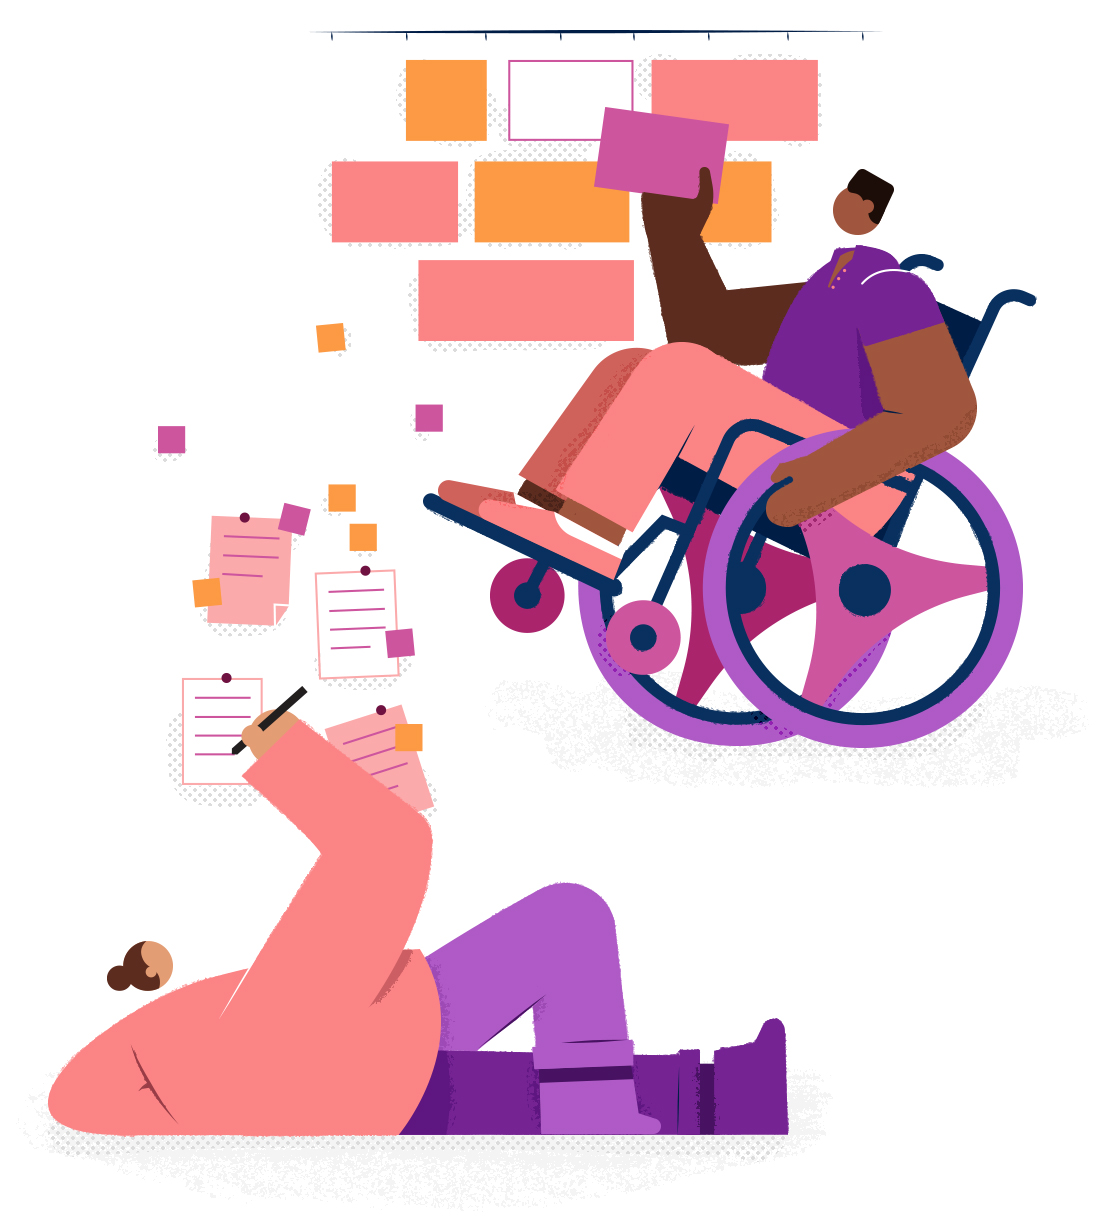
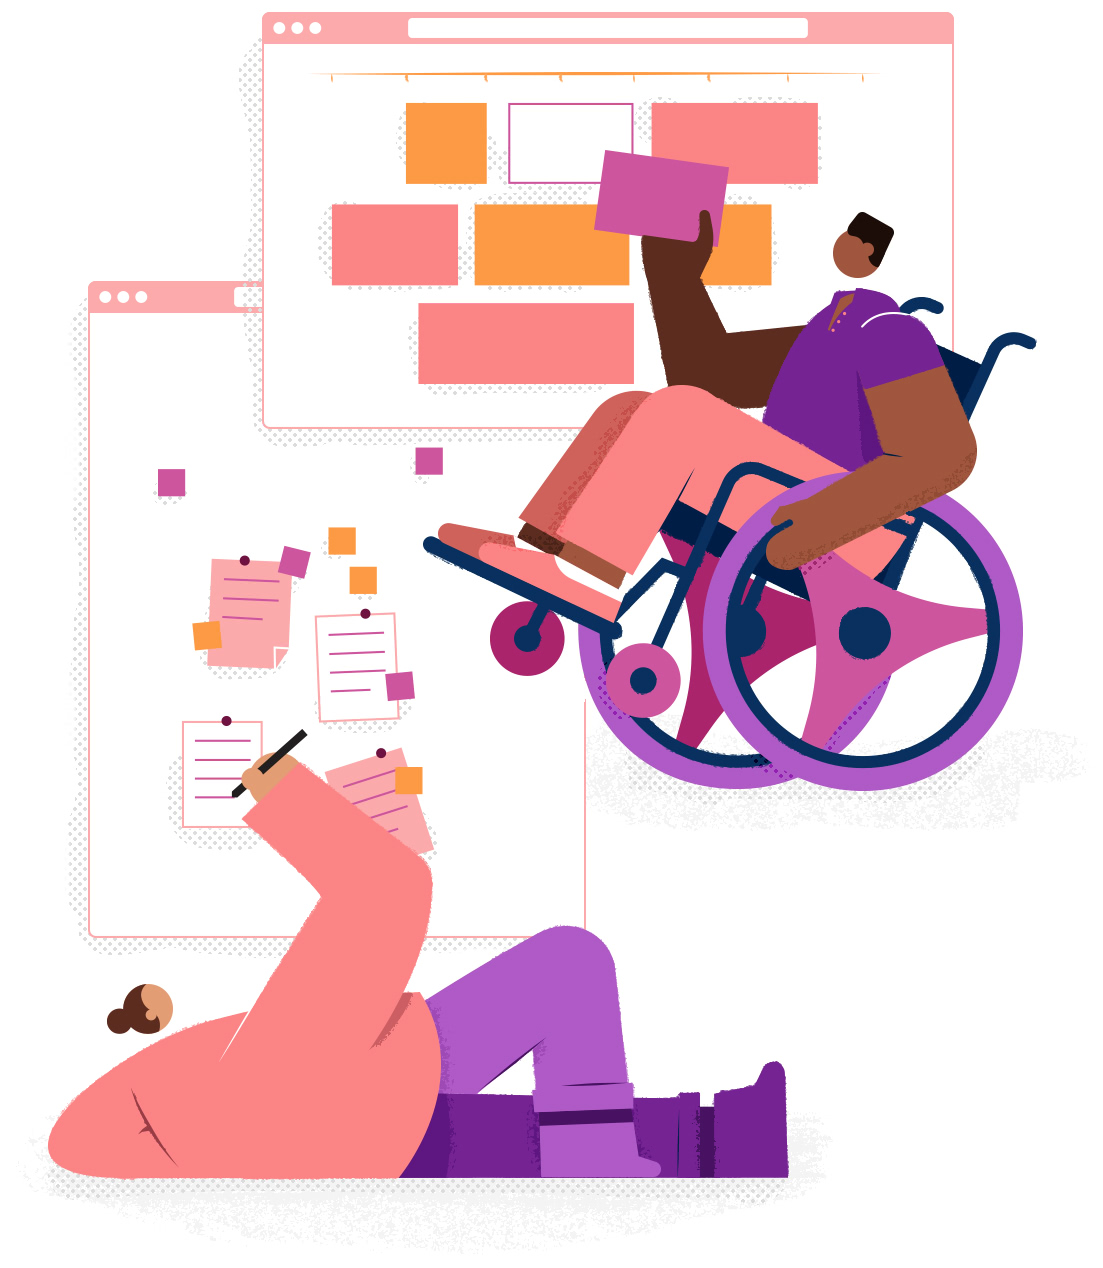
Update illustrations and add AOS

diff --git a/src/client/components/landing/PlorExplorers.vue b/src/client/components/landing/PlorExplorers.vue
@@ -1,28 +1,25 @@
 <template>
   <div class="mountains columns is-centered">
     <div class="column is-half explorers">
-      <div
+      <a
+        v-for="(explorer, i) in explorers"
+        :key="i"
         class="explorer show"
-        :style="`background-image: ${linGrad}, url('/images/mitchellbernstein.jpg');`">
-        Mitchell Bernstein
-      </div>
-      <div
-        class="explorer show"
-        :style="`background-image: ${linGrad}, url('/images/samrose.jpg');`">
-        Sam Rose
-      </div>
-      <div
-        class="explorer show"
-        :style="`background-image: ${linGrad}, url('/images/franklin.jpg');`">
-        Franklin Rose
-      </div>
+        :href="explorer.link"
+        target="_blank"
+        :style="`background-image: ${linGrad}, url('/images/${explorer.image}');`"
+        :data-aos="`fade-${explorer.direction}`"
+        data-aos-anchor-placement="bottom-bottom">
+        <div>{{ explorer.name }}</div>
+        <div>{{ explorer.role }}</div>
+      </a>
     </div>
     <main class="column is-half-desktop is-two-thirds-tablet">
       <section class="hero is-fullheight">
         <div class="hero-body">
           <div class="container">
             <div class="content">
-              <div class="title">Built by ex(plor)ers</div>
+              <div class="section-title">Built by ex(plor)ers</div>
               <p>Our team is composed of two friends (and an awesome dog) working day and night until this service is plorfect.</p>
               <p>We believe services in this space aren't quite there yet. We felt there was an opportunity to build the best tool to help small and large buisinesses share their gifts with the world.</p>
             </div>
@@ -39,7 +36,30 @@ export default {
   data() {
     return {
       linGrad:
-        'linear-gradient(180deg, rgba(0, 0, 0, 0.0001) 50%, rgba(0, 0, 0, 0.5) 100%)'
+        'linear-gradient(180deg, rgba(0, 0, 0, 0.0001) 50%, rgba(0, 0, 0, 0.6) 100%)',
+      explorers: [
+        {
+          name: 'Mitchell Bernstein',
+          image: 'mitchellbernstein.jpg',
+          direction: 'right',
+          role: 'Designer',
+          link: 'https://twitter.com/MitchBernstein'
+        },
+        {
+          name: 'Sam Rose',
+          image: 'samrose.jpg',
+          direction: 'left',
+          role: 'Developer',
+          link: 'https://twitter.com/_SamRose3_'
+        },
+        {
+          name: 'Franklin',
+          image: 'franklin.jpg',
+          direction: 'up',
+          role: 'Cheif Dog Officer',
+          link: 'https://instagram.com/franklindacorgi'
+        }
+      ]
     };
   }
 };
@@ -75,18 +95,14 @@ export default {
 .explorer {
   display: flex;
   position: absolute;
-  align-items: flex-end;
+  flex-flow: column nowrap;
+  align-items: flex-start;
+  justify-content: flex-end;
   width: 250px;
   height: 300px;
   padding: 1.2rem;
-  transform: translateY(0);
-  transform-origin: top;
-  transition-duration: 0.15s;
-  transition-timing-function: ease-out;
-  // transition: 0.3s;
-  // transform: perspective(1000px) rotateX(-40deg) translateY(25%);
-  border-radius: 8px;
-  opacity: 0;
+  transition: all 0.3s;
+  border-radius: 4px;
   background-color: #fff;
   background-repeat: no-repeat;
   background-position: center;
@@ -102,9 +118,9 @@ export default {
     box-shadow: 0 14px 32px 0 rgba(0, 0, 0, 0.3);
   }
 
-  &.show {
-    opacity: 1;
-    // transform: rotate(0) translateY(0);
+  div:nth-child(2) {
+    font-size: 1rem;
+    font-weight: 500;
   }
 
   &:nth-child(1) {

diff --git a/src/client/components/landing/PlorTools.vue b/src/client/components/landing/PlorTools.vue
@@ -4,9 +4,12 @@
       <section class="hero is-fullheight">
         <div class="hero-body">
           <div class="container">
-            <div class="title">Tools designed for you</div>
+            <div class="section-title">Tools designed for you</div>
             <div class="features">
-              <div class="feature">
+              <div
+                class="feature"
+                data-aos="fade-right"
+                data-aos-anchor-placement="bottom-bottom">
                 <IconBase
                   size="lg"
                   class="feature-icon">
@@ -17,7 +20,10 @@
                   <p>Post whatever you'd like, whenever you'd like, as many times as you'd like.</p>
                 </div>
               </div>
-              <div class="feature">
+              <div
+                class="feature"
+                data-aos="fade-right"
+                data-aos-anchor-placement="bottom-bottom">
                 <IconBase
                   size="lg"
                   class="feature-icon">
@@ -28,7 +34,10 @@
                   <p>Draft posts to store for later so you can review them with your team.</p>
                 </div>
               </div>
-              <div class="feature">
+              <div
+                class="feature"
+                data-aos="fade-right"
+                data-aos-anchor-placement="bottom-bottom">
                 <IconBase
                   size="lg"
                   class="feature-icon">
@@ -39,7 +48,10 @@
                   <p>People management can get messy. Like eatting chicken wings! Use tools to easily govern all your memebers.</p>
                 </div>
               </div>
-              <div class="feature">
+              <div
+                class="feature"
+                data-aos="fade-right"
+                data-aos-anchor-placement="bottom-bottom">
                 <IconBase
                   size="lg"
                   class="feature-icon">
@@ -108,7 +120,7 @@ export default {
 }
 
 .artwork {
-  width: 80%;
+  width: 100%;
   margin: 0 auto;
 }
 </style>

diff --git a/src/client/components/landing/PlorBuild.vue b/src/client/components/landing/PlorBuild.vue
@@ -1,17 +1,35 @@
 <template>
   <div class="columns is-centered">
-    <aside class="column is-half is-hidden-touch"/>
+    <aside class="column is-half is-hidden-touch v-center">
+      <img
+        class="artwork"
+        src="/images/building.jpg"
+        alt="Tools designed for you">
+    </aside>
     <main class="column is-half-desktop is-two-thirds-tablet">
       <section class="hero is-fullheight">
         <div class="hero-body">
           <div class="container">
-            <h3 class="title">Build your audience by socializing smarter</h3>
+            <h3 class="section-title">Build your audience by socializing smarter</h3>
             <p>Spread the word without a hassle so you and your team can get back to business.</p>
             <p>Plor takes the stress of managing all those social media accounts off your shoulders. Less time posting or tweeting and more time relaxing.</p>
-            <button class="button is-link is-outlined">Get early access</button>
+            <button class="button button--long is-link is-outlined">Get early access</button>
           </div>
         </div>
       </section>
     </main>
   </div>
 </template>
+
+<style scoped>
+.v-center {
+  display: flex;
+  align-items: center;
+}
+
+.artwork {
+  width: 100%;
+  margin: 0 auto;
+}
+</style>
+

diff --git a/src/client/components/shared/PlorNavbar.vue b/src/client/components/shared/PlorNavbar.vue
@@ -19,22 +19,18 @@
         <div class="navbar-start" />
         <div class="navbar-end">
           <div class="navbar-item">
-            <div class="field is-grouped">
-              <p class="control">
-                <nuxt-link
-                  class="button is-text login"
-                  to="/app">
-                  Login
-                </nuxt-link>
-              </p>
-              <p class="control">
-                <nuxt-link
-                  class="button is-link is-outlined"
-                  to="/auth/register">
-                  Sign up
-                </nuxt-link>
-              </p>
-            </div>
+            <nuxt-link
+              class="button is-text login"
+              to="/app">
+              Login
+            </nuxt-link>
+          </div>
+          <div class="navbar-item">
+            <nuxt-link
+              class="button is-link is-outlined"
+              to="/auth/register">
+              Sign up
+            </nuxt-link>
           </div>
         </div>
       </div>

diff --git a/src/client/components/landing/PlorEarly.vue b/src/client/components/landing/PlorEarly.vue
@@ -5,7 +5,7 @@
         <div class="hero-body">
           <div class="container">
             <div class="content">
-              <div class="title">Get early access</div>
+              <div class="section-title">Get early access</div>
               <p>We are currently building Plor to be totally rad. Sign up and we'll let you know when we are ready for your greatness. We promise absolutely no spam.</p>
             </div>
           </div>
@@ -16,7 +16,7 @@
       <section class="hero is-halfheight">
         <div class="hero-body">
           <div class="container">
-            <button class="button is-link is-outlined">Get early access</button>
+            <button class="button button--long is-link is-outlined">Get early access</button>
           </div>
         </div>
       </section>

diff --git a/src/client/pages/index.vue b/src/client/pages/index.vue
@@ -12,7 +12,6 @@
 
 <script>
 import PlorNavbar from '@/components/shared/PlorNavbar';
-
 import PlorBuild from '@/components/landing/PlorBuild';
 import PlorExplorers from '@/components/landing/PlorExplorers';
 import PlorTools from '@/components/landing/PlorTools';
@@ -27,6 +26,10 @@ export default {
     PlorExplorers,
     PlorTools,
     PlorEarly
+  },
+  async mounted() {
+    const AOS = await import('aos');
+    AOS.init();
   }
 };
 </script>
@@ -40,9 +43,21 @@ export default {
   }
 }
 
+.section-title {
+  margin-bottom: 2rem;
+  font-size: 2.75rem;
+  font-weight: 400;
+  line-height: 1.15;
+}
+
 .landing {
+  .title {
+    margin-bottom: 1rem;
+    font-weight: 500;
+  }
+
   p {
-    margin-bottom: 1em;
+    margin-bottom: 2em;
     color: $blue-light;
     font-size: $size-5;
   }

diff --git a/src/client/assets/style/main.scss b/src/client/assets/style/main.scss
@@ -2,12 +2,27 @@
 @import '~bulma/bulma';
 
 // Bulma Overrides
+.container {
+  @include desktop {
+    width: $fullhd;
+    max-width: $fullhd;
+  }
+}
+
 .button {
+  height: auto;
+  padding-top: $button-padding-vertical;
   padding-right: $button-padding-horizontal;
+  padding-bottom: $button-padding-vertical;
   padding-left: $button-padding-horizontal;
   border-width: 2px;
   border-radius: $default-radius;
   font-weight: 700;
+
+  &--long {
+    padding-right: $button-padding-horizontal-long;
+    padding-left: $button-padding-horizontal-long;
+  }
 }
 
 .card {

diff --git a/src/client/assets/style/variables.scss b/src/client/assets/style/variables.scss
@@ -10,7 +10,7 @@ $gray: #a5acbb;
 $blue: #2b67f5;
 $blue-dark: #122758;
 $blue-light: #526280;
-$purple: #612df7;
+$purple: #9939bd;
 $orange: #ee7256;
 
 // Add invert colors
@@ -19,7 +19,9 @@ $blue-dark-invert: findColorInvert($blue-dark);
 /* Default properties */
 $default-radius: 6px;
 $navbar-height: 6.25rem;
+$button-padding-vertical: 0.5rem;
 $button-padding-horizontal: 1.25rem;
+$button-padding-horizontal-long: 3.75rem;
 
 // 3. Set the derived variables
 $primary: $purple;

diff --git a/nuxt.config.js b/nuxt.config.js
@@ -13,7 +13,7 @@ module.exports = {
   },
   buildDir: 'dist/client',
   cache: true,
-  css: ['@/assets/style/main.scss'],
+  css: ['aos/dist/aos.css', '@/assets/style/main.scss'],
   env: {
     HOST: process.env.HOST,
     PORT: process.env.PORT
